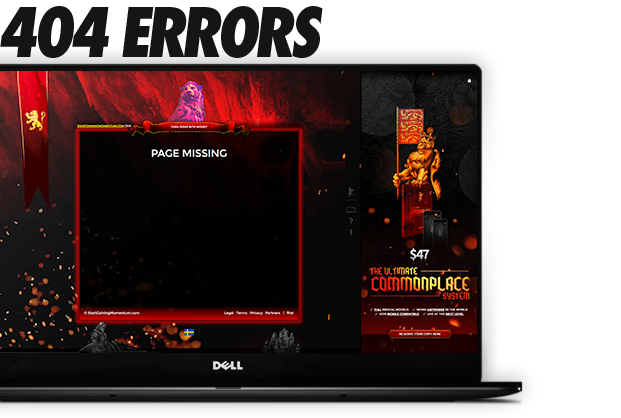
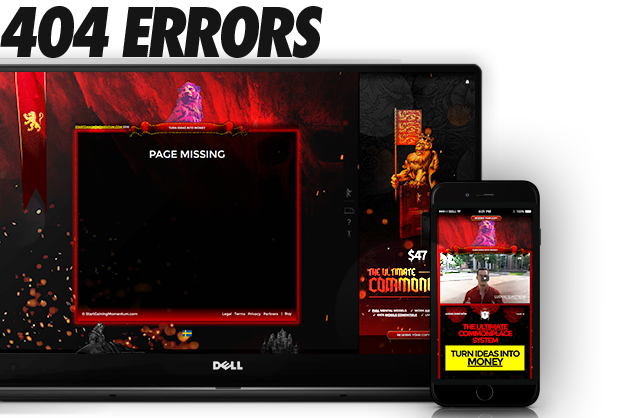
404 ERrors

diff --git a/README.md b/README.md
@@ -38,10 +38,6 @@
 ---
 
 <p align="center">
-  <img src="readme/rails.jpg" title="Fully Rails 5 Compatible" />
-</p>
-
-<p align="center">
   <img src="readme/titles/compatible.png" title="Fully Rails 5 Compatible" width="600" />
 </p>
 
@@ -52,11 +48,11 @@
   <img src="readme/check_02.png" height="22" title="Rails 4 & 5 Compatible"   align="absmiddle" />&nbsp; <strong align="absmiddle">Instant Setup</strong> &nbsp;
 </p>
 
-Brand new `controller`, `middleware` & options have made **`ExceptionHandler`** even more powerful & efficient. Now you can use `ExceptionHandler` directly with a single click - **plug and play** custom exception pages ↴
+Brand new `controller`, `middleware` & options have made **`ExceptionHandler`** even more powerful & efficient. Now you can use `ExceptionHandler` directly with a single click - **plug and play** custom exception pages:
 
 <div align="center">
-  <img src="readme/400.jpg" title="400 Errors" width="435" />
-  <img src="readme/500.jpg" title="500 Errors" width="435" />
+  <img src="readme/404.png" title="400 Errors" width="440" />
+  <img src="readme/500.jpg" title="500 Errors" width="440" />
 </div>
 
 **ExceptionHandler** uses `config.exceptions_app` to catch & send errors to our [`exceptions` controller](app/controllers/exception_handler/exception_controller.rb).
